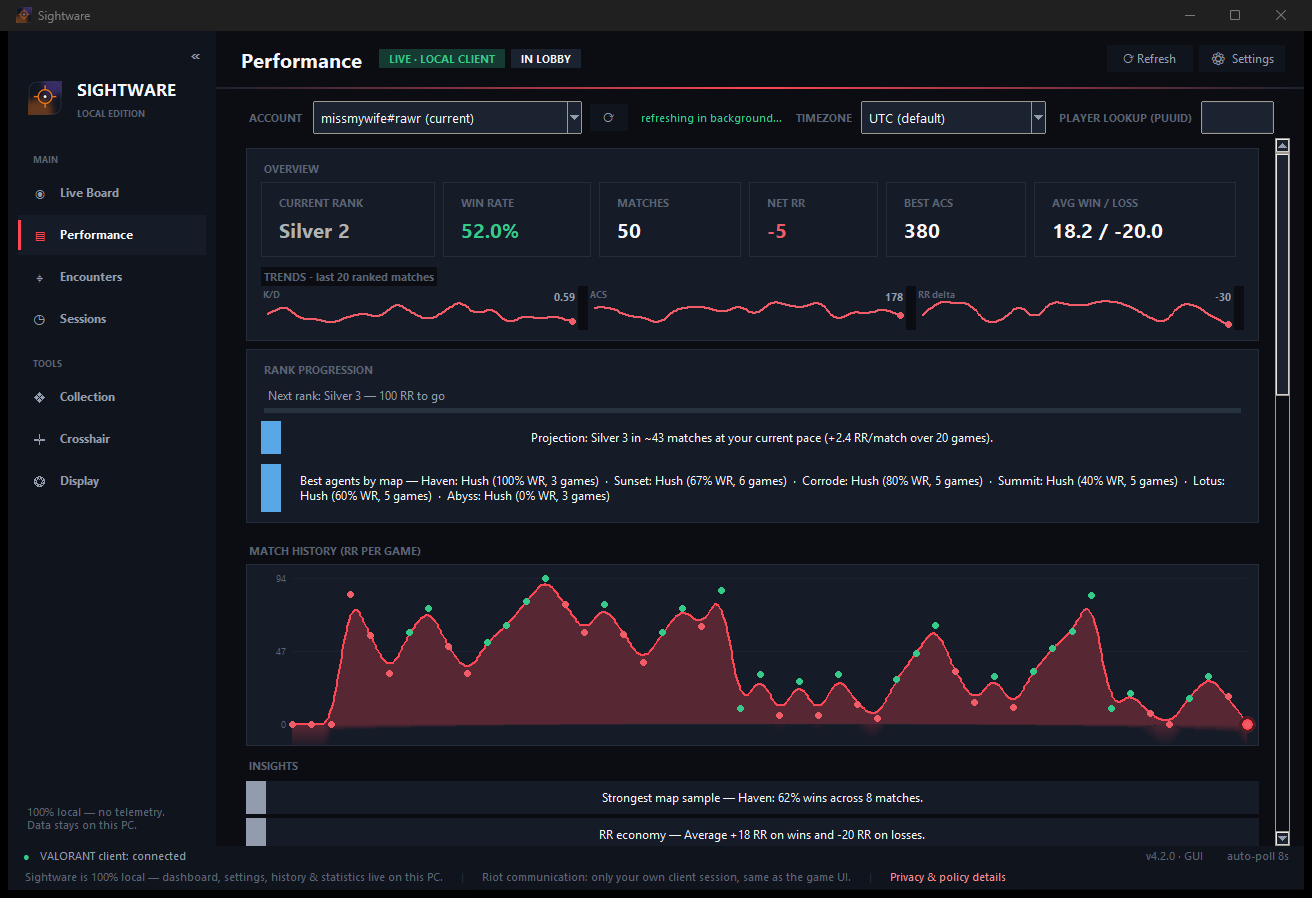
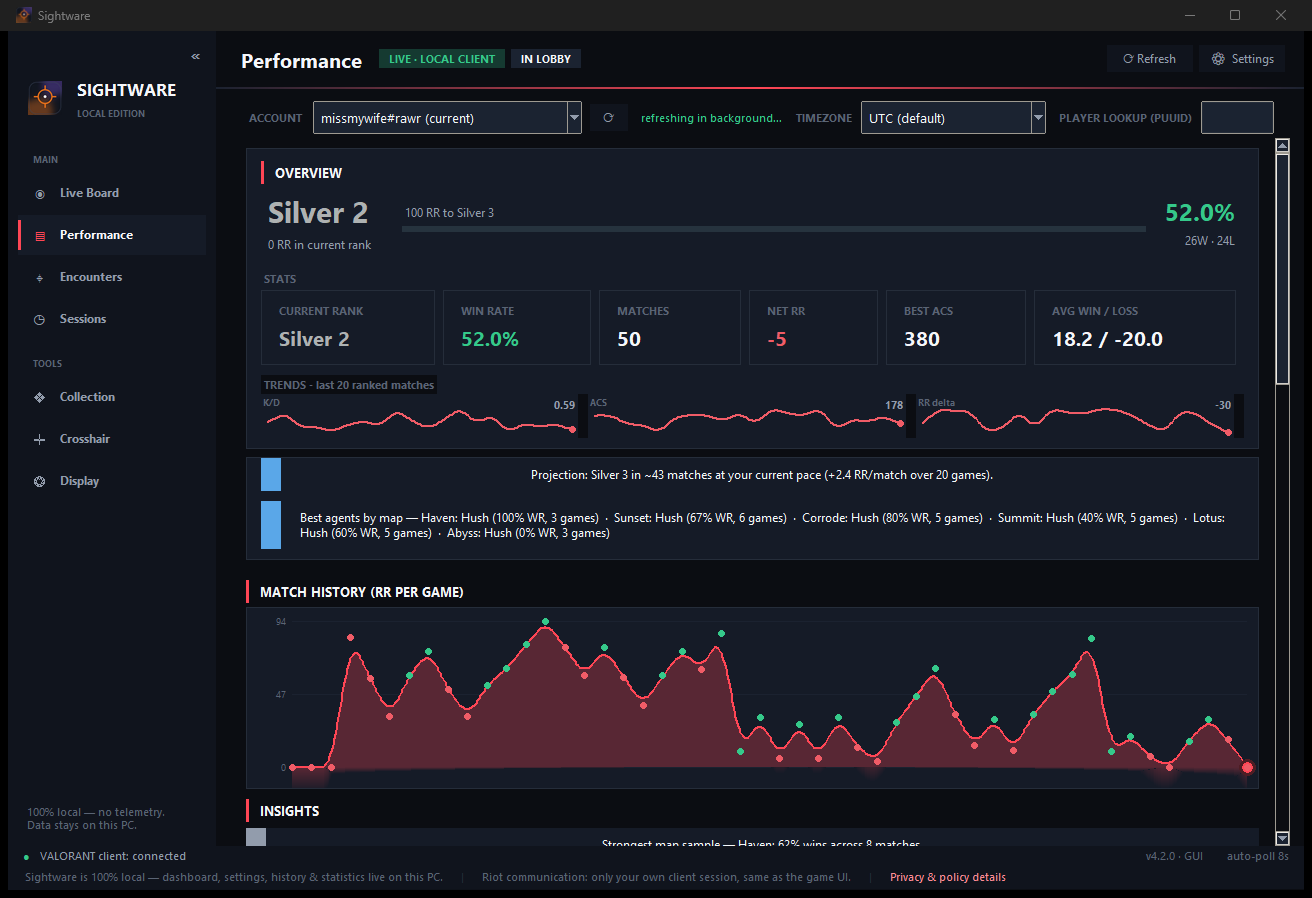
Performance: hero rank card + orange-bar section heads
- Hero card: big rank name (rank-colored), RR in current rank, wide
  progress bar with 'X RR to <next>', win rate + record on the right
- All section headers upgraded to orange accent-bar style
- RR chart gets its own labeled section

diff --git a/gui/tabs/performance_tab.py b/gui/tabs/performance_tab.py
@@ -14,6 +14,19 @@ from ..widgets import (Banner, CalendarHeatmap, DataTable, Column, MiniProgress,
 from ..dialogs import MatchDetailDialog, PlayerProfileDialog
 
 
+def _section_head(parent, text: str, bg=None):
+    """Section header: orange accent bar + uppercase title."""
+    try:
+        bg = bg or parent.cget("bg")
+    except Exception:
+        bg = BG
+    head = tk.Frame(parent, bg=bg)
+    tk.Frame(head, bg=RED, width=3).pack(side="left", fill="y", padx=(0, 8))
+    tk.Label(head, text=text.upper(), bg=bg, fg=TEXT,
+             font=("Segoe UI", 10, "bold")).pack(side="left")
+    return head
+
+
 def _ts(ts) -> str:
     try:
         return time.strftime("%m-%d %H:%M", time.localtime(int(ts)))
@@ -68,10 +81,40 @@ class PerformanceTab(tk.Frame):
         ov = tk.Frame(body, bg=CARD, highlightbackground=LINE,
                       highlightthickness=1)
         ov.pack(fill="x", padx=16, pady=(10, 8))
-        tk.Label(ov, text="OVERVIEW", bg=CARD, fg=TEXT_FAINT,
+        _section_head(ov, "overview", bg=CARD).pack(anchor="w", padx=14,
+                                                    pady=(12, 4))
+        # hero: current rank + RR + progress to next
+        hero = tk.Frame(ov, bg=CARD)
+        hero.pack(fill="x", padx=14, pady=(0, 10))
+        hero_left = tk.Frame(hero, bg=CARD)
+        hero_left.pack(side="left", padx=(4, 20))
+        self.hero_rank = tk.Label(hero_left, text="—", bg=CARD, fg=TEXT,
+                                  font=("Segoe UI", 22, "bold"))
+        self.hero_rank.pack(anchor="w")
+        self.hero_rr = tk.Label(hero_left, text="", bg=CARD, fg=TEXT_DIM,
+                                font=("Segoe UI", 9))
+        self.hero_rr.pack(anchor="w")
+        hero_mid = tk.Frame(hero, bg=CARD)
+        hero_mid.pack(side="left", fill="both", expand=True, padx=(8, 16),
+                      pady=(6, 0))
+        self.next_lbl = tk.Label(hero_mid, text="", bg=CARD, fg=TEXT_DIM,
+                                 font=("Segoe UI", 9))
+        self.next_lbl.pack(anchor="w", pady=(8, 3))
+        self.next_bar = MiniProgress(hero_mid, height=6, color=RED)
+        self.next_bar.pack(fill="x")
+        hero_right = tk.Frame(hero, bg=CARD)
+        hero_right.pack(side="right", padx=(0, 6))
+        self.hero_wr = tk.Label(hero_right, text="—", bg=CARD, fg=TEXT,
+                                font=("Segoe UI", 18, "bold"))
+        self.hero_wr.pack(anchor="e")
+        self.hero_wl = tk.Label(hero_right, text="", bg=CARD, fg=TEXT_DIM,
+                                font=("Segoe UI", 9))
+        self.hero_wl.pack(anchor="e")
+
+        # stat chips
+        tk.Label(ov, text="STATS", bg=CARD, fg=TEXT_FAINT,
                  font=("Segoe UI", 8, "bold")).pack(anchor="w", padx=14,
-                                                    pady=(10, 4))
-        # summary cards
+                                                    pady=(4, 2))
         cards = tk.Frame(ov, bg=CARD)
         cards.pack(fill="x", padx=14, pady=(0, 4))
         self.c_rank = StatCard(cards, "current rank")
@@ -97,24 +140,13 @@ class PerformanceTab(tk.Frame):
         for sp in (self.trend_kd, self.trend_acs, self.trend_rr):
             sp.pack(side="left", padx=(0, 10), fill="x", expand=True)
 
-        prog = tk.Frame(body, bg=CARD, highlightbackground=LINE,
-                        highlightthickness=1)
-        prog.pack(fill="x", padx=16, pady=(0, 8))
-        tk.Label(prog, text="RANK PROGRESSION", bg=CARD, fg=TEXT_FAINT,
-                 font=("Segoe UI", 8, "bold")).pack(anchor="w", padx=14,
-                                                    pady=(10, 4))
-        self.next_wrap = tk.Frame(prog, bg=CARD)
-        self.next_lbl = tk.Label(self.next_wrap, text="", bg=CARD, fg=TEXT_DIM,
-                                 font=("Segoe UI", 9))
-        self.next_lbl.pack(anchor="w", padx=2, pady=(2, 2))
-        self.next_bar = MiniProgress(self.next_wrap, height=5, color=RED)
-        self.next_bar.pack(fill="x", padx=1)
-        self.next_wrap.pack(fill="x", padx=14, pady=(0, 8))
-        self.prog_card = prog
+        self.prog_card = tk.Frame(body, bg=CARD, highlightbackground=LINE,
+                                  highlightthickness=1)
+        self.prog_card.pack(fill="x", padx=16, pady=(0, 8))
 
         # RR chart
-        section_title(body, "match history (RR per game)").pack(
-            anchor="w", padx=16, pady=(10, 4))
+        _section_head(body, "match history (RR per game)").pack(
+            anchor="w", padx=16, pady=(12, 4))
         self.chart = RRChart(body)
         self.chart.pack(fill="x", padx=16)
 
@@ -129,7 +161,7 @@ class PerformanceTab(tk.Frame):
         left.pack(side="left", fill="both", expand=True, padx=(0, 8))
         right = tk.Frame(splits, bg=BG)
         right.pack(side="left", fill="both", expand=True, padx=(8, 0))
-        section_title(left, "by agent").pack(anchor="w", pady=(0, 4))
+        _section_head(left, "by agent").pack(anchor="w", pady=(0, 4))
         self.agent_table = DataTable(left, [
             Column("name", "Agent", 110),
             Column("games", "Games", 60, "e"),
@@ -139,7 +171,7 @@ class PerformanceTab(tk.Frame):
             Column("avgAcs", "ACS", 56, "e"),
         ], height=170, row_h=26)
         self.agent_table.pack(fill="x")
-        section_title(right, "by map").pack(anchor="w", pady=(0, 4))
+        _section_head(right, "by map").pack(anchor="w", pady=(0, 4))
         self.map_table = DataTable(right, [
             Column("name", "Map", 110),
             Column("games", "Games", 60, "e"),
@@ -153,10 +185,8 @@ class PerformanceTab(tk.Frame):
         cal = tk.Frame(body, bg=CARD, highlightbackground=LINE,
                        highlightthickness=1)
         cal.pack(fill="x", padx=16, pady=(12, 0))
-        tk.Label(cal, text="PLAY CALENDAR - click a day to see every match",
-                 bg=CARD, fg=TEXT_FAINT,
-                 font=("Segoe UI", 8, "bold")).pack(anchor="w", padx=14,
-                                                    pady=(10, 4))
+        _section_head(cal, "play calendar — click a day for every match",
+                      bg=CARD).pack(anchor="w", padx=14, pady=(12, 4))
         nav = tk.Frame(cal, bg=CARD)
         nav.pack(fill="x", padx=14, pady=(0, 4))
         ttk.Button(nav, text="◀", style="Ghost.TButton", width=3,
@@ -189,7 +219,7 @@ class PerformanceTab(tk.Frame):
             self.heatmap.set_month(months_avail[-1])
         self._refresh_month_nav()
 
-        section_title(body, "schedule").pack(anchor="w", padx=16, pady=(12, 4))
+        _section_head(body, "schedule").pack(anchor="w", padx=16, pady=(12, 4))
         self.schedule_table = DataTable(body, [
             Column("name", "When", 110),
             Column("games", "Games", 70, "e"),
@@ -200,7 +230,7 @@ class PerformanceTab(tk.Frame):
         self.schedule_table.pack(fill="x", padx=16)
 
         # rank changes
-        section_title(body, "rank changes").pack(anchor="w", padx=16,
+        _section_head(body, "rank changes").pack(anchor="w", padx=16,
                                                  pady=(12, 4))
         self.changes_table = DataTable(body, [
             Column("ts", "Date", 110),
@@ -213,7 +243,7 @@ class PerformanceTab(tk.Frame):
         # match list
         match_head = tk.Frame(body, bg=BG)
         match_head.pack(fill="x", padx=16, pady=(12, 4))
-        section_title(match_head, "matches").pack(side="left")
+        _section_head(match_head, "matches").pack(side="left")
         ttk.Button(match_head, text="Export CSV", style="Ghost.TButton",
                    command=self._export_matches_csv).pack(side="right")
         tk.Label(match_head, text="click a row for the full match report",
@@ -314,10 +344,17 @@ class PerformanceTab(tk.Frame):
     def _render_summary(self, payload: dict) -> None:
         s = payload.get("summary") or {}
         current = s.get("current") or {}
+        self.hero_rank.configure(text=current.get("name", "—"),
+                                 fg=current.get("color") or TEXT)
+        self.hero_rr.configure(text=f"{current.get('rr') or 0} RR in current rank")
         self.c_rank.set(current.get("name", "—"),
                         sub=f"{current.get('rr') or 0} RR",
                         color=current.get("color") or TEXT)
         wr = s.get("winRate")
+        self.hero_wr.configure(text=f"{wr}%" if wr is not None else "—",
+                               fg=WIN if (wr or 0) >= 50 else TEXT)
+        self.hero_wl.configure(text=f"{s.get('wins', 0)}W · "
+                                    f"{s.get('losses', 0)}L")
         self.c_wr.set(f"{wr}%" if wr is not None else "—",
                       sub=f"{s.get('wins', 0)}W · {s.get('losses', 0)}L",
                       color=WIN if (wr or 0) >= 50 else TEXT)
@@ -335,9 +372,8 @@ class PerformanceTab(tk.Frame):
 
         nxt = s.get("next")
         if nxt:
-            self.next_wrap.pack(fill="x", padx=16, pady=(0, 8))
             self.next_lbl.configure(
-                text=f"Next rank: {nxt.get('name')} — {nxt.get('rrNeeded', 0)} RR to go")
+                text=f"{nxt.get('rrNeeded', 0)} RR to {nxt.get('name')}")
             self.next_bar.set(nxt.get("progress", 0))
             self._render_projection(payload, nxt)
         else:
@@ -436,7 +472,7 @@ class PerformanceTab(tk.Frame):
             child.destroy()
         if not insights:
             return
-        section_title(self.insights_wrap, "insights").pack(anchor="w",
+        _section_head(self.insights_wrap, "insights").pack(anchor="w",
                                                            pady=(0, 4))
         for ins in insights[:6]:
             tone = ins.get("tone", "neutral")
